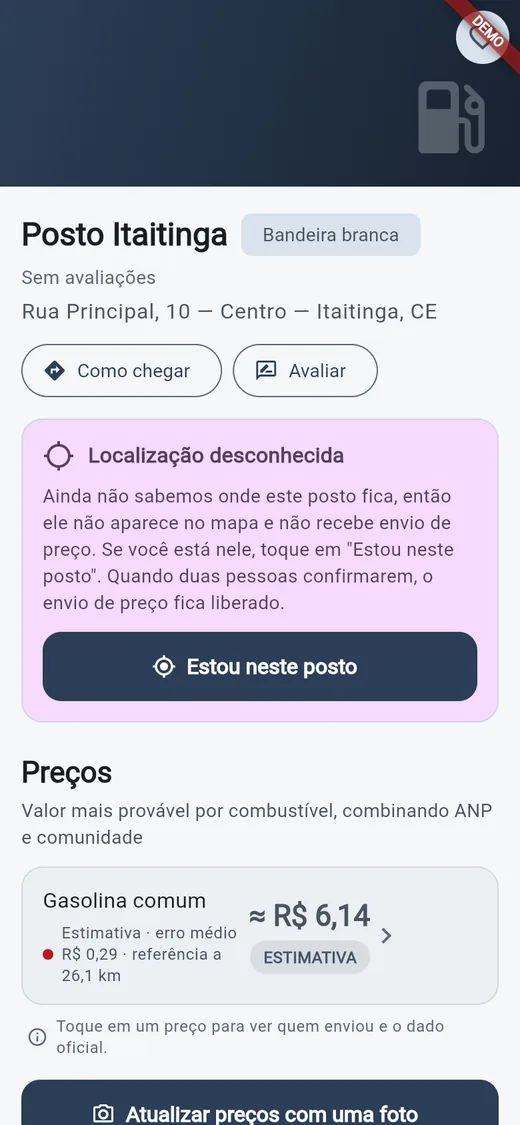
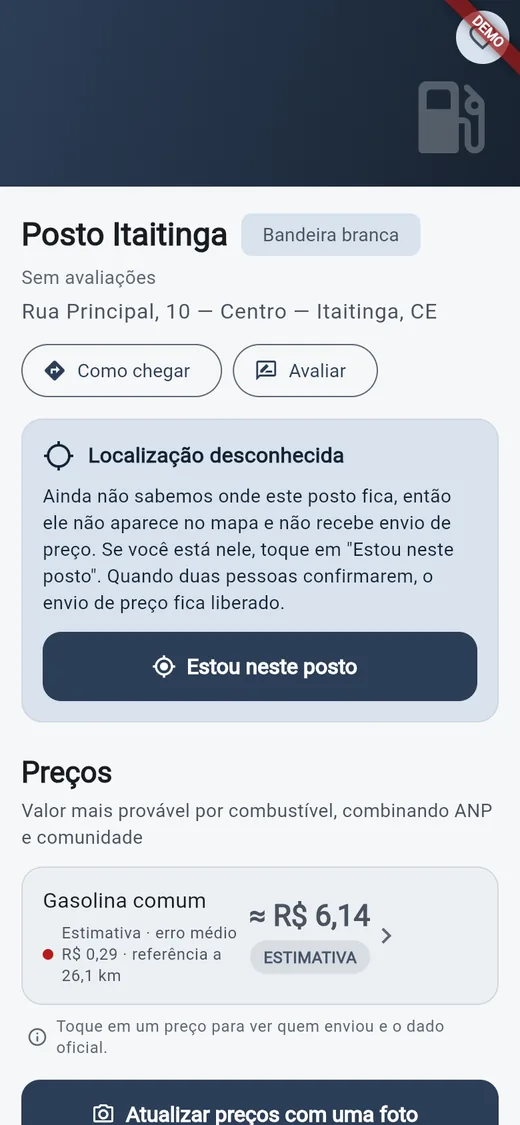
aviso de localização na família da marca, no lugar do lilás gerado pelo Material; capturas refeitas

Changed region(s): [[0.0308, 0.3733, 0.9538, 0.6533]]

diff --git a/app/lib/tema.dart b/app/lib/tema.dart
@@ -23,6 +23,12 @@ class Tema {
         // Filtro de combustível escolhido e aba ativa usam o tom suave da marca
         secondaryContainer: const Color(0xFFD9E2EE),
         onSecondaryContainer: const Color(0xFF142235),
+        // Aviso de localização: também na família da marca. O terciário gerado pelo Material era lilás, e qualquer
+        // outra cor esbarrava em uma das cores do preço, da estimativa ou da ANP
+        tertiary: marca,
+        onTertiary: Colors.white,
+        tertiaryContainer: const Color(0xFFD9E2EE),
+        onTertiaryContainer: const Color(0xFF142235),
         surface: const Color(0xFFF6F7F9),
         surfaceDim: const Color(0xFFD7DBE1),
         surfaceBright: const Color(0xFFF6F7F9),
@@ -47,6 +53,10 @@ class Tema {
       onPrimaryContainer: const Color(0xFFDCE6F3),
       secondaryContainer: const Color(0xFF33465F),
       onSecondaryContainer: const Color(0xFFDCE6F3),
+      tertiary: const Color(0xFFA9C3E6),
+      onTertiary: const Color(0xFF0E2340),
+      tertiaryContainer: const Color(0xFF33465F),
+      onTertiaryContainer: const Color(0xFFDCE6F3),
       surface: const Color(0xFF101317),
       surfaceDim: const Color(0xFF101317),
       surfaceBright: const Color(0xFF343C47),

diff --git a/app/test/tema_test.dart b/app/test/tema_test.dart
@@ -47,6 +47,9 @@ void main() {
       }
       expect(contraste(cs.onPrimary, cs.primary), greaterThanOrEqualTo(4.5));
       expect(contraste(cs.onSecondaryContainer, cs.secondaryContainer), greaterThanOrEqualTo(4.5));
+      expect(contraste(cs.onTertiaryContainer, cs.tertiaryContainer), greaterThanOrEqualTo(4.5));
+      // Aviso de localização na família da marca, sem o lilás gerado pelo Material
+      expect(cs.tertiaryContainer, cs.secondaryContainer);
     }
   });
 
